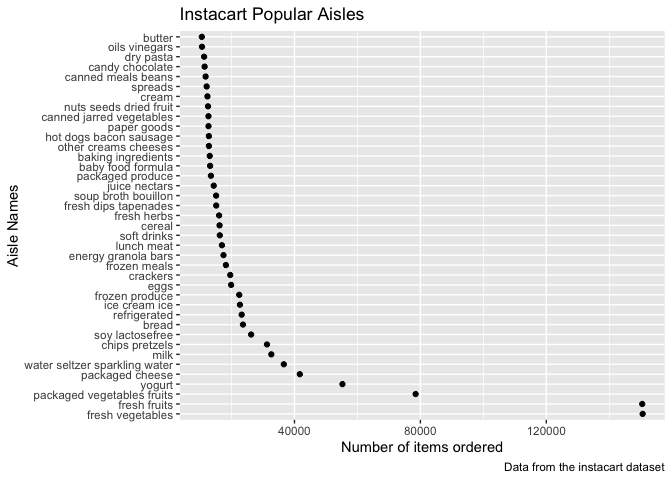
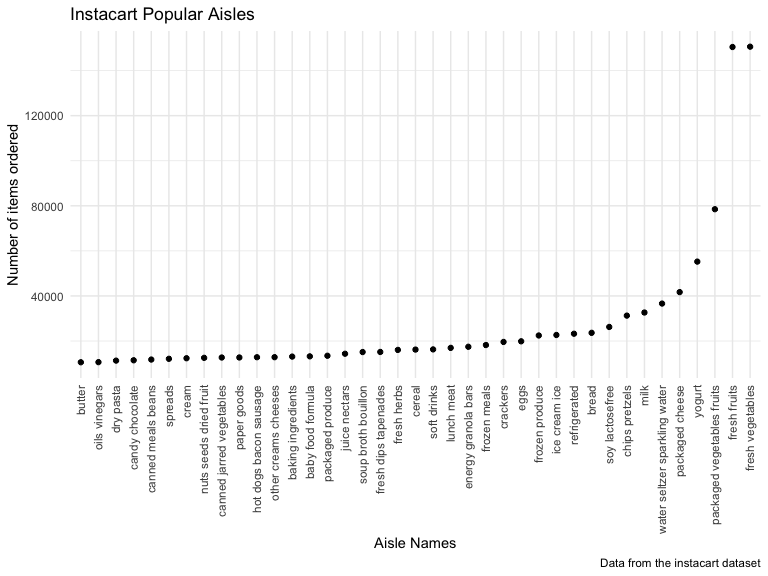
complete q3 and add commentary

diff --git a/p8105_hw3_sg3891.md b/p8105_hw3_sg3891.md
@@ -25,22 +25,48 @@ orders include products such as Bulgarian Yogurt, Organic 4% Milk Fat
 Whole Milk Cottage Cheese, Organic Celery Hearts. This dataset includes
 orders for 39123 unique products.
 
-There are 134 aisles, and the aisles that the most items are ordered
-from are packaged vegetables fruits, fresh fruits, fresh vegetables.
-
 #### Question 1.1
 
-Make a plot that shows the number of items ordered in each aisle,
-limiting this to aisles with more than 10000 items ordered. Arrange
-aisles sensibly, and organize your plot so others can read it.
+There are 134 aisles, and the aisles that the most items are ordered
+from are packaged vegetables fruits, fresh fruits, fresh vegetables.
+This can also be seen in the below code chunk and output.
 
 ``` r
-aisle_df = 
-  instacart %>% 
+instacart %>%
   count(aisle) %>% 
-  filter(n > 10000)
+  arrange(desc(n))
+```
 
-ggplot(aisle_df, aes(x = reorder(aisle, -n), y = n)) + 
+    ## # A tibble: 134 × 2
+    ##    aisle                              n
+    ##    <chr>                          <int>
+    ##  1 fresh vegetables              150609
+    ##  2 fresh fruits                  150473
+    ##  3 packaged vegetables fruits     78493
+    ##  4 yogurt                         55240
+    ##  5 packaged cheese                41699
+    ##  6 water seltzer sparkling water  36617
+    ##  7 milk                           32644
+    ##  8 chips pretzels                 31269
+    ##  9 soy lactosefree                26240
+    ## 10 bread                          23635
+    ## # … with 124 more rows
+
+#### Question 1.2
+
+The code chunk below produces a plot that shows the number of items
+ordered in each aisle, limiting this to aisles with more than 10000
+items ordered.
+
+``` r
+instacart %>% 
+  count(aisle) %>% 
+  filter(n > 10000) %>% 
+  mutate(
+    aisle = factor(aisle),
+    aisle = fct_reorder(aisle, n)
+  ) %>%
+  ggplot(aes(x = aisle, y = n)) + 
   geom_point() + 
   labs(
     title = "Instacart Popular Aisles ",
@@ -48,12 +74,17 @@ ggplot(aisle_df, aes(x = reorder(aisle, -n), y = n)) +
     y = "Number of items ordered",
     caption = "Data from the instacart dataset"
   ) +
-  coord_flip()
+  theme(axis.text.x = element_text(angle = 90, vjust = 0.5, hjust = 1))
 ```
 
 ![](p8105_hw3_sg3891_files/figure-gfm/q1_plot-1.png)<!-- -->
 
-#### Question 1.2
+Looking at the plot of number of items ordered in each aisle above, we
+can see that the majority of popular aisles have less than 20,000 items
+ordered. However, there are 2 aisles that standout, including fresh
+fruit, and fresh vegetables, which each have over 140,000 items ordered.
+
+#### Question 1.3
 
 Below is a table showing the three most popular items in each of the
 aisles “baking ingredients”, “dog food care”, and “packaged vegetables
@@ -64,35 +95,41 @@ instacart %>%
   filter(aisle %in% c("baking ingredients", "dog food care", "packaged vegetables fruits")) %>%
   group_by(aisle) %>% 
   count(product_name) %>% 
-  rename(item_count = n) %>% 
-  mutate(order_count = min_rank(desc(item_count))) %>% 
-  filter(order_count < 4) %>% 
-  arrange(aisle, order_count) %>% 
-  select(aisle, product_name, item_count) %>% 
+  rename(order_count = n) %>% 
+  mutate(rank = min_rank(desc(order_count))) %>% 
+  filter(rank < 4) %>% 
+  arrange(aisle, rank) %>% 
   knitr::kable()
 ```
 
-| aisle                      | product\_name                                 | item\_count |
-|:---------------------------|:----------------------------------------------|------------:|
-| baking ingredients         | Light Brown Sugar                             |         499 |
-| baking ingredients         | Pure Baking Soda                              |         387 |
-| baking ingredients         | Cane Sugar                                    |         336 |
-| dog food care              | Snack Sticks Chicken & Rice Recipe Dog Treats |          30 |
-| dog food care              | Organix Chicken & Brown Rice Recipe           |          28 |
-| dog food care              | Small Dog Biscuits                            |          26 |
-| packaged vegetables fruits | Organic Baby Spinach                          |        9784 |
-| packaged vegetables fruits | Organic Raspberries                           |        5546 |
-| packaged vegetables fruits | Organic Blueberries                           |        4966 |
+| aisle                      | product\_name                                 | order\_count | rank |
+|:---------------------------|:----------------------------------------------|-------------:|-----:|
+| baking ingredients         | Light Brown Sugar                             |          499 |    1 |
+| baking ingredients         | Pure Baking Soda                              |          387 |    2 |
+| baking ingredients         | Cane Sugar                                    |          336 |    3 |
+| dog food care              | Snack Sticks Chicken & Rice Recipe Dog Treats |           30 |    1 |
+| dog food care              | Organix Chicken & Brown Rice Recipe           |           28 |    2 |
+| dog food care              | Small Dog Biscuits                            |           26 |    3 |
+| packaged vegetables fruits | Organic Baby Spinach                          |         9784 |    1 |
+| packaged vegetables fruits | Organic Raspberries                           |         5546 |    2 |
+| packaged vegetables fruits | Organic Blueberries                           |         4966 |    3 |
 
-#### Question 1.3
+From the table above, we can see that the most ordered products in the
+baking ingredients aisle include light brown sugar, pure baking soda,
+and cane sugar. There are much fewer orders within the dog food care
+aisle (less than 1/10th of the orders in the baking ingredients aisle).
+The most ordered packaged vegetables fruits include organic baby
+spinach, organic raspberries, and organic blueberries.
 
-Make a table showing the mean hour of the day at which Pink Lady Apples
-and Coffee Ice Cream are ordered on each day of the week; format this
-table for human readers (i.e. produce a 2 x 7 table).
+#### Question 1.4
+
+The code chunk below produces a table showing the mean hour of the day
+at which Pink Lady Apples and Coffee Ice Cream was ordered on each day
+of the week.
 
 ``` r
 instacart %>% 
-  filter(product_name == "Pink Lady Apples" | product_name =="Coffee Ice Cream") %>%
+  filter(product_name %in% c("Pink Lady Apples", "Coffee Ice Cream")) %>% 
   group_by(product_name, order_dow) %>%
   summarize(average = round(mean(order_hour_of_day), 2)) %>%
   pivot_wider(
@@ -103,20 +140,23 @@ instacart %>%
   knitr::kable()
 ```
 
-    ## `summarise()` has grouped output by 'product_name'. You can override using the `.groups` argument.
-
 | product\_name    | Sunday | Monday | Tuesday | Wednesday | Thursday | Friday | Saturday |
 |:-----------------|-------:|-------:|--------:|----------:|---------:|-------:|---------:|
 | Coffee Ice Cream |  13.77 |  14.32 |   15.38 |     15.32 |    15.22 |  12.26 |    13.83 |
 | Pink Lady Apples |  13.44 |  11.36 |   11.70 |     14.25 |    11.55 |  12.78 |    11.94 |
 
+From the table above, we can see that coffee ice cream is purchased at
+the latest time during the week on Tuesday, and pink lady apples are
+ordered at the earliest time during the week on Tuesday, which is
+interesting.
+
 ## Question 2
 
 The following question uses the BRFSS data.
 
-#### Clean the BRFSS data
+#### Load and clean the BRFSS data
 
-The code chunk below cleans the data:
+The code chunk below loads and cleans the data:
 
 ``` r
 data("brfss_smart2010")
@@ -155,9 +195,9 @@ brfss_cleaned %>%
     ## 5 NJ   
     ## 6 PA
 
-As seen above, the states observed at 7 or more locations include
-Connecticut, Florida, Massachusetts, North Carolina, New Jersey, and
-Pennsylvania.
+As seen above, the states observed at 7 or more locations in 2002
+include Connecticut, Florida, Massachusetts, North Carolina, New Jersey,
+and Pennsylvania.
 
 In 2010, which states were observed at 7 or more locations?
 
@@ -190,20 +230,23 @@ brfss_cleaned %>%
     ## 13 TX   
     ## 14 WA
 
-As seen above, the states observed at 7 or more locations include
-California, Colorado, Florida, Massachusetts, Maryland, North Carolina,
-Nebraska, New Jersey, New York, Ohio, Pennsylvania, South Carolina,
-Texas, and Washington.
+As seen above, the states observed at 7 or more locations in 2010
+include California, Colorado, Florida, Massachusetts, Maryland, North
+Carolina, Nebraska, New Jersey, New York, Ohio, Pennsylvania, South
+Carolina, Texas, and Washington.
+
+Comparing the states observed at 7 or more locations in 2002 vs in 2010,
+we can see that there are many more states in 7+ locations in 2010 (14
+states in 2010 vs 6 states in 2002).
 
 #### Question 2.2
 
-Construct a dataset that is limited to Excellent responses, and
-contains, year, state, and a variable that averages the data\_value
-across locations within a state.
+The code below produces a dataset that is limited to Excellent
+responses, and contains, year, state, and a variable that averages the
+data\_value across locations within a state.
 
-Additionally, make a “spaghetti” plot of this average value over time
-within a state (that is, make a plot showing a line for each state
-across years – the geom\_line geometry and group aesthetic will help).
+It additionally generates a “spaghetti” plot of this average value over
+time within a state.
 
 ``` r
 spaghetti_df = brfss_cleaned %>% 
@@ -212,8 +255,6 @@ spaghetti_df = brfss_cleaned %>%
   summarize(average = round(mean(data_value, na.rm = TRUE), 2)) %>%
   select(year, state, average)
 ```
-
-    ## `summarise()` has grouped output by 'state'. You can override using the `.groups` argument.
 
 ``` r
 ggplot(spaghetti_df, aes(x = year, y = average, color = state)) + 
@@ -227,21 +268,27 @@ ggplot(spaghetti_df, aes(x = year, y = average, color = state)) +
 ```
 
 ![](p8105_hw3_sg3891_files/figure-gfm/q2_spaghetti-1.png)<!-- -->
-\#\#\#\# Question 2.3 Make a two-panel plot showing, for the years 2006,
-and 2010, distribution of data\_value for responses (“Poor” to
-“Excellent”) among locations in NY State.
+Looking at the spaghetti plot above, we see that over time from 2002 to
+2010, there is a lot of flux in average value, with a trend of
+decreasing average value in general across the states.
+
+#### Question 2.3
+
+Make a two-panel plot showing, for the years 2006, and 2010,
+distribution of data\_value for responses (“Poor” to “Excellent”) among
+locations in NY State.
 
 ``` r
 two_2006_2010 = brfss_cleaned %>% 
   filter(year == "2006" | year == "2010") %>% 
   filter(state == "NY")
 
-ggplot(two_2006_2010, aes(x = data_value, color = response)) + 
-  geom_density() + 
+ggplot(two_2006_2010, aes(x = response, y = data_value, fill = response)) + 
+  geom_boxplot() + 
   facet_grid(. ~ year) +
   labs(
     title = "Distribution of data_value for responses in NY",
-    x = "Response",
+    x = "Responses",
     y = "data_value",
     caption = "Data from the brfss dataset"
   )
@@ -249,12 +296,16 @@ ggplot(two_2006_2010, aes(x = data_value, color = response)) +
 
 ![](p8105_hw3_sg3891_files/figure-gfm/q2_panels-1.png)<!-- -->
 
+Comparing the box plots in 2006 and 2010 for New York, it appears that
+the data values for Excellent and Very good responses are higher in 2010
+than in 2006. There is also a lot more variability and a larger standard
+deviation in the Fair category distribution data value in 2010 when
+compared to 2006.
+
 ## Question 3
 
-Load, tidy, and otherwise wrangle the data. Your final dataset should
-include all originally observed variables and values; have useful
-variable names; include a weekday vs weekend variable; and encode data
-with reasonable variable classes.
+Load, tidy, and otherwise wrangle the data. The final data set includes
+a weekday vs weekend variable as well.
 
 #### Load and clean the accel data
 
@@ -274,16 +325,7 @@ accel_cleaned =
   )
 ```
 
-    ## Rows: 35 Columns: 1443
-
-    ## ── Column specification ────────────────────────────────────────────────────────
-    ## Delimiter: ","
-    ## chr    (1): day
-    ## dbl (1442): week, day_id, activity.1, activity.2, activity.3, activity.4, ac...
-
-    ## 
-    ## ℹ Use `spec()` to retrieve the full column specification for this data.
-    ## ℹ Specify the column types or set `show_col_types = FALSE` to quiet this message.
+#### Describe accel data set
 
 Describe the resulting dataset (e.g. what variables exist, how many
 observations, etc)
@@ -356,3 +398,28 @@ fluctuate throughout the 35 days, with no clear trend.
 Make a single-panel plot that shows the 24-hour activity time courses
 for each day and use color to indicate day of the week. Describe in
 words any patterns or conclusions you can make based on this graph.
+
+``` r
+accel_cleaned %>% 
+  mutate(activity_number = as.numeric(activity_number)) %>% 
+  group_by(day, activity_number) %>% 
+  summarize(avg_value = mean(activity_counts)) %>% 
+  ggplot(aes(x = activity_number, y = avg_value, color = day)) +
+  geom_smooth() +
+  scale_x_continuous(
+    breaks = (1:24)*60 + 1,
+    labels = c(1:24),
+    name = "Hours in each day"
+  ) + 
+  labs(
+    title = "24-hour activity time courses for each day of the week",
+    x = "Hours (activity number)",
+    y = "Average activity counts",
+    color = "Day of the Week"
+  )
+```
+
+![](p8105_hw3_sg3891_files/figure-gfm/accel_plot-1.png)<!-- -->
+
+Looking at this graph, we can see that Friday average activity counts
+peak at around hour 21, where the hour range is from 0-23.
